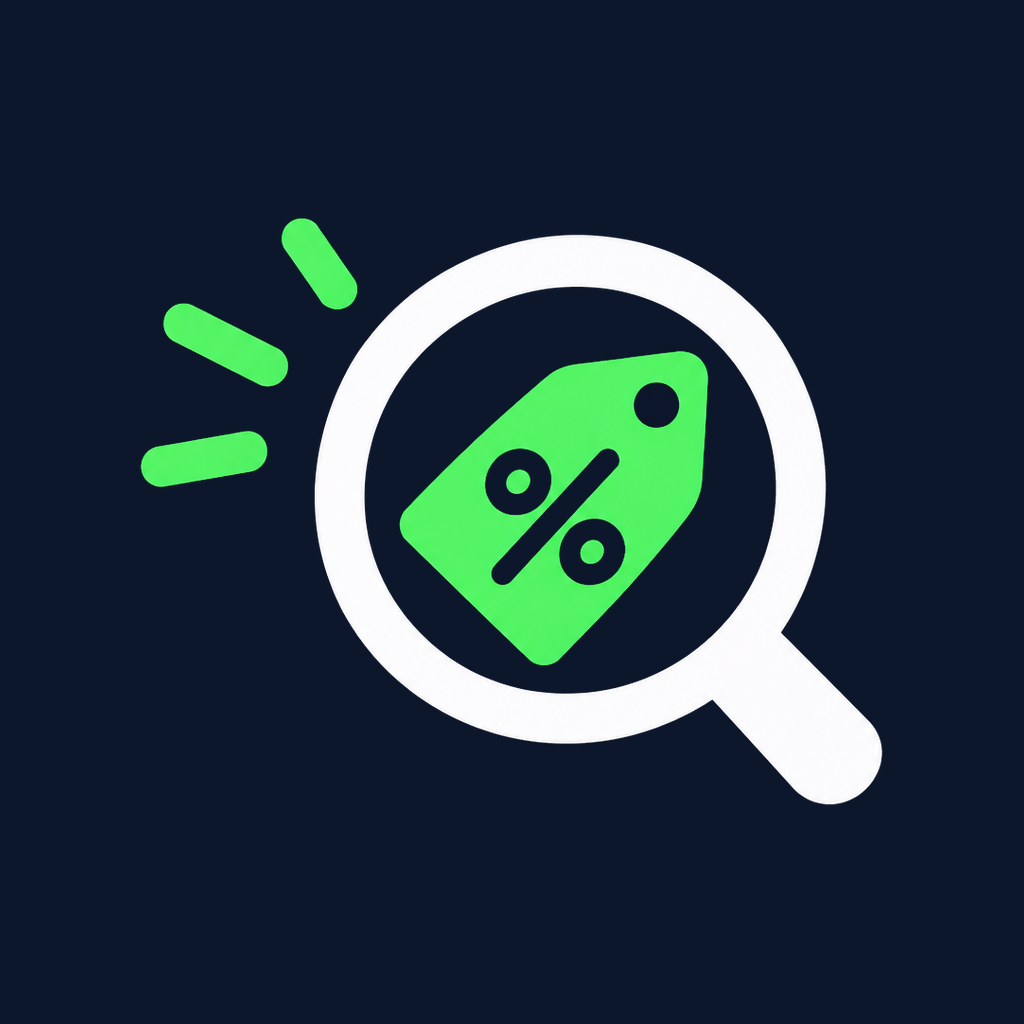
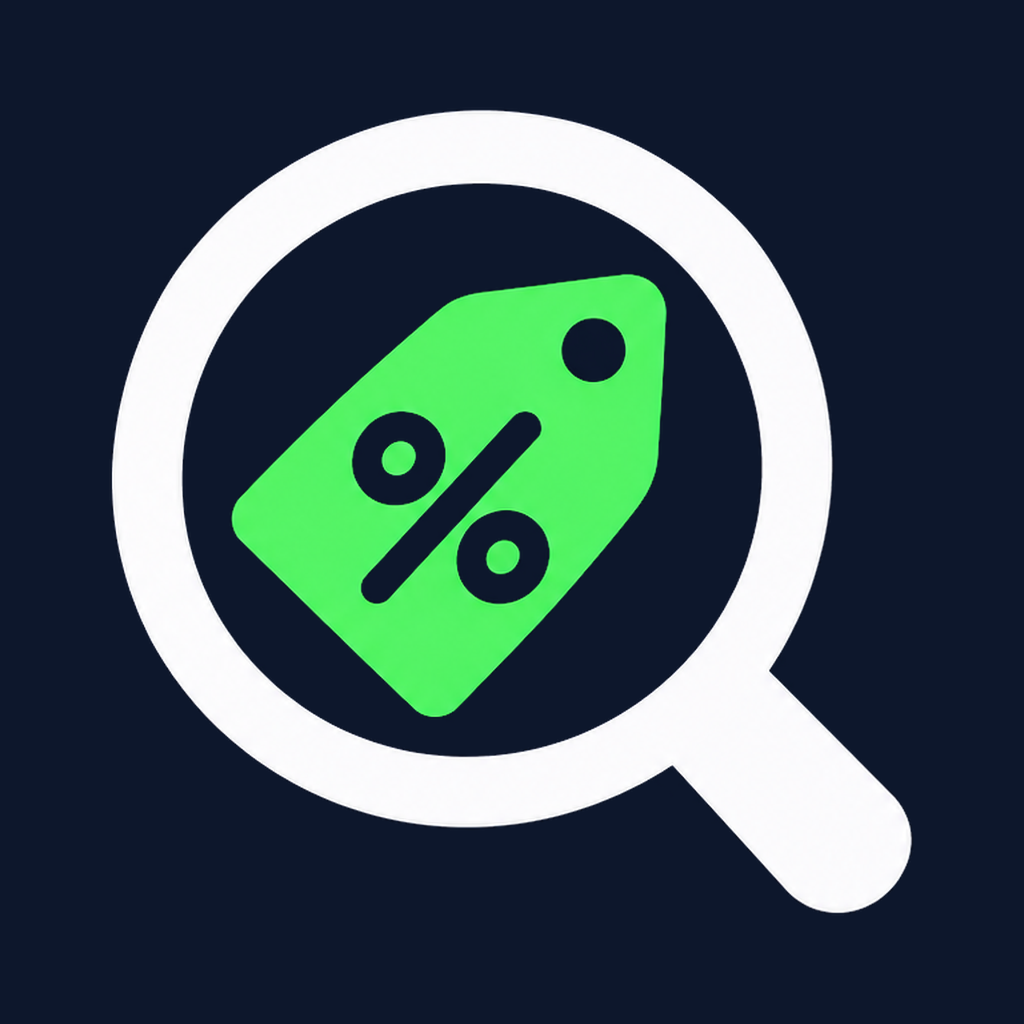
Add files via upload

Changed region(s): [[0.0938, 0.0938, 0.9062, 0.9062], [0.6562, 0.625, 0.6875, 0.6562]]

diff --git a/index.html b/index.html
@@ -3,21 +3,21 @@
 <head>
 <meta charset="utf-8">
 <meta name="viewport" content="width=device-width, initial-scale=1">
-<meta name="theme-color" content="#2563eb">
-<title>Resell Helper</title>
+<meta name="theme-color" content="#0D172C">
+<title>FlipScout</title>
 <style>
-:root{--bg:#f4f5f7;--card:#fff;--tx:#1b1d21;--mu:#6b7280;--ac:#2563eb;--ok:#15803d;--bad:#b91c1c;--warn:#b45309;--bd:#e2e5ea}
-@media (prefers-color-scheme:dark){:root{--bg:#111316;--card:#1c1f24;--tx:#eceef1;--mu:#9aa1ab;--ac:#60a5fa;--ok:#4ade80;--bad:#f87171;--warn:#fbbf24;--bd:#2d3239}}
+:root{--bg:#0D172C;--card:#15223f;--tx:#eef2fb;--mu:#8fa0c0;--ac:#4ade80;--ok:#4ade80;--bad:#f87171;--warn:#fbbf24;--bd:#243659}
 *{box-sizing:border-box}
 body{margin:0;background:var(--bg);color:var(--tx);font:16px system-ui,sans-serif;padding-bottom:76px}
-header{padding:14px 16px;font-weight:700;font-size:18px}
+header{display:flex;align-items:center;gap:10px;padding:16px;font-weight:800;font-size:24px;letter-spacing:-.5px}
+header b{color:var(--ac)}.logo{width:38px;height:38px;border-radius:10px}
 main{padding:0 12px 12px;max-width:640px;margin:auto}
-.card{background:var(--card);border:1px solid var(--bd);border-radius:12px;padding:14px;margin-bottom:12px}
+.card{background:var(--card);border:1px solid var(--bd);border-radius:16px;padding:16px;margin-bottom:12px;box-shadow:0 2px 10px rgba(0,0,0,.25)}
 label{display:block;font-size:13px;color:var(--mu);margin:10px 0 4px}
 input,textarea,select{width:100%;padding:10px;font-size:16px;border:1px solid var(--bd);border-radius:8px;background:var(--bg);color:var(--tx)}
 textarea{min-height:90px}
-button{padding:10px 14px;font-size:15px;border:0;border-radius:8px;background:var(--ac);color:#fff;margin:8px 6px 0 0}
-button.s{background:var(--bd);color:var(--tx)}button.d{background:var(--bad)}
+button{padding:10px 14px;font-size:15px;border:0;border-radius:8px;background:var(--ac);color:#0D172C;font-weight:700;margin:8px 6px 0 0}
+button.s{background:var(--bd);color:var(--tx)}button.d{background:var(--bad);color:#0D172C}
 .row{display:flex;gap:8px}.row>div{flex:1}
 .big{font-size:28px;font-weight:700}.stat{font-size:20px;font-weight:700}
 .ok{color:var(--ok)}.bad{color:var(--bad)}.warn{color:var(--warn)}.mu{color:var(--mu);font-size:13px}
@@ -30,7 +30,7 @@ nav button.on{color:var(--ac);font-weight:700}
 </style>
 </head>
 <body>
-<header>Resell Helper · eBay UK</header>
[1 lines of base64/hex data omitted]
 <main id="app"></main>
 <nav id="nav"></nav>
 <script>
